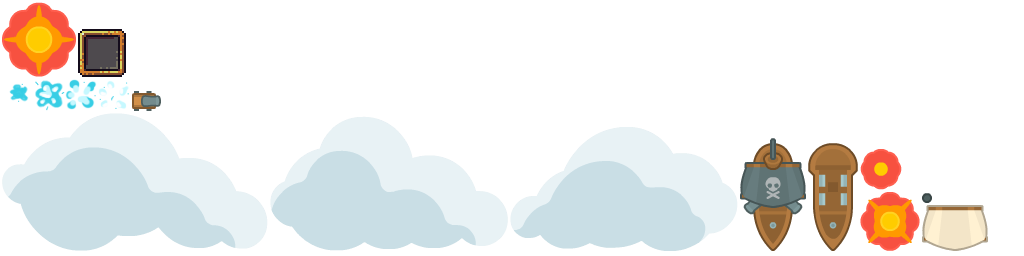
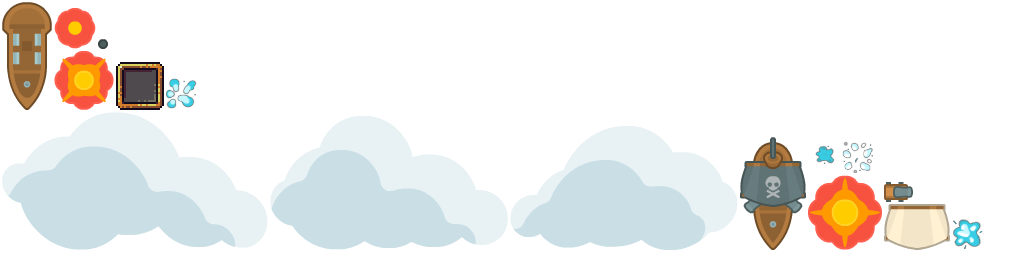
Added the cannon splash animation to the atlas AssetLoader loads in the animation from the atlas Moved the atlas images into a new folder for ease of use

diff --git a/core/src/com/hfentonfearn/utils/AssetLoader.java b/core/src/com/hfentonfearn/utils/AssetLoader.java
@@ -32,6 +32,7 @@ public class AssetLoader implements Disposable {
     public static AssetMiniMap minimap;
     public static AssetsUI ui;
     public static AssetPlayerShip playerShip;
+    public static AssetEnemyShip enemyShip;
     public static AssetCloud clouds;
     public static AssetProjectiles projectiles;
     public static AssetEffects effects;
@@ -53,10 +54,11 @@ public class AssetLoader implements Disposable {
         map = new AssetMap();
         minimap = new AssetMiniMap();
         playerShip = new AssetPlayerShip(atlas);
+        enemyShip = new AssetEnemyShip(atlas);
         ui = new AssetsUI();
         clouds = new AssetCloud(atlas);
         projectiles = new AssetProjectiles(atlas);
-        effects = new AssetEffects();
+        effects = new AssetEffects(atlas);
     }
 
     @Override
@@ -77,6 +79,20 @@ public class AssetLoader implements Disposable {
 
         public void loadLoader() {
             loader = new BodyEditorLoader(Gdx.files.internal("objects/ships/playerShip.json"));
+        }
+    }
+
+    public static class AssetEnemyShip {
+        public final AtlasRegion ship;
+        public BodyEditorLoader loader;
+
+        public AssetEnemyShip(TextureAtlas atlas) {
+            //ships = atlas.findRegions("ship");
+            ship = atlas.findRegion("shipBlack");
+        }
+
+        public void loadLoader() {
+            loader = new BodyEditorLoader(Gdx.files.internal("objects/ships/enemyShip.json"));
         }
     }
 
@@ -159,8 +175,8 @@ public class AssetLoader implements Disposable {
     public static class AssetEffects {
         public final Animation<TextureRegion> cannonSplash;
 
-        public AssetEffects() {
-            cannonSplash = getAnimationFromSheet(new Texture(Gdx.files.internal("piratepack/waterSplash.png")),0.06f, 4,1);
+        public AssetEffects(TextureAtlas atlas) {
+            cannonSplash = new Animation<>(0.06f, atlas.findRegions("waterSplash"));
         }
     }
 
